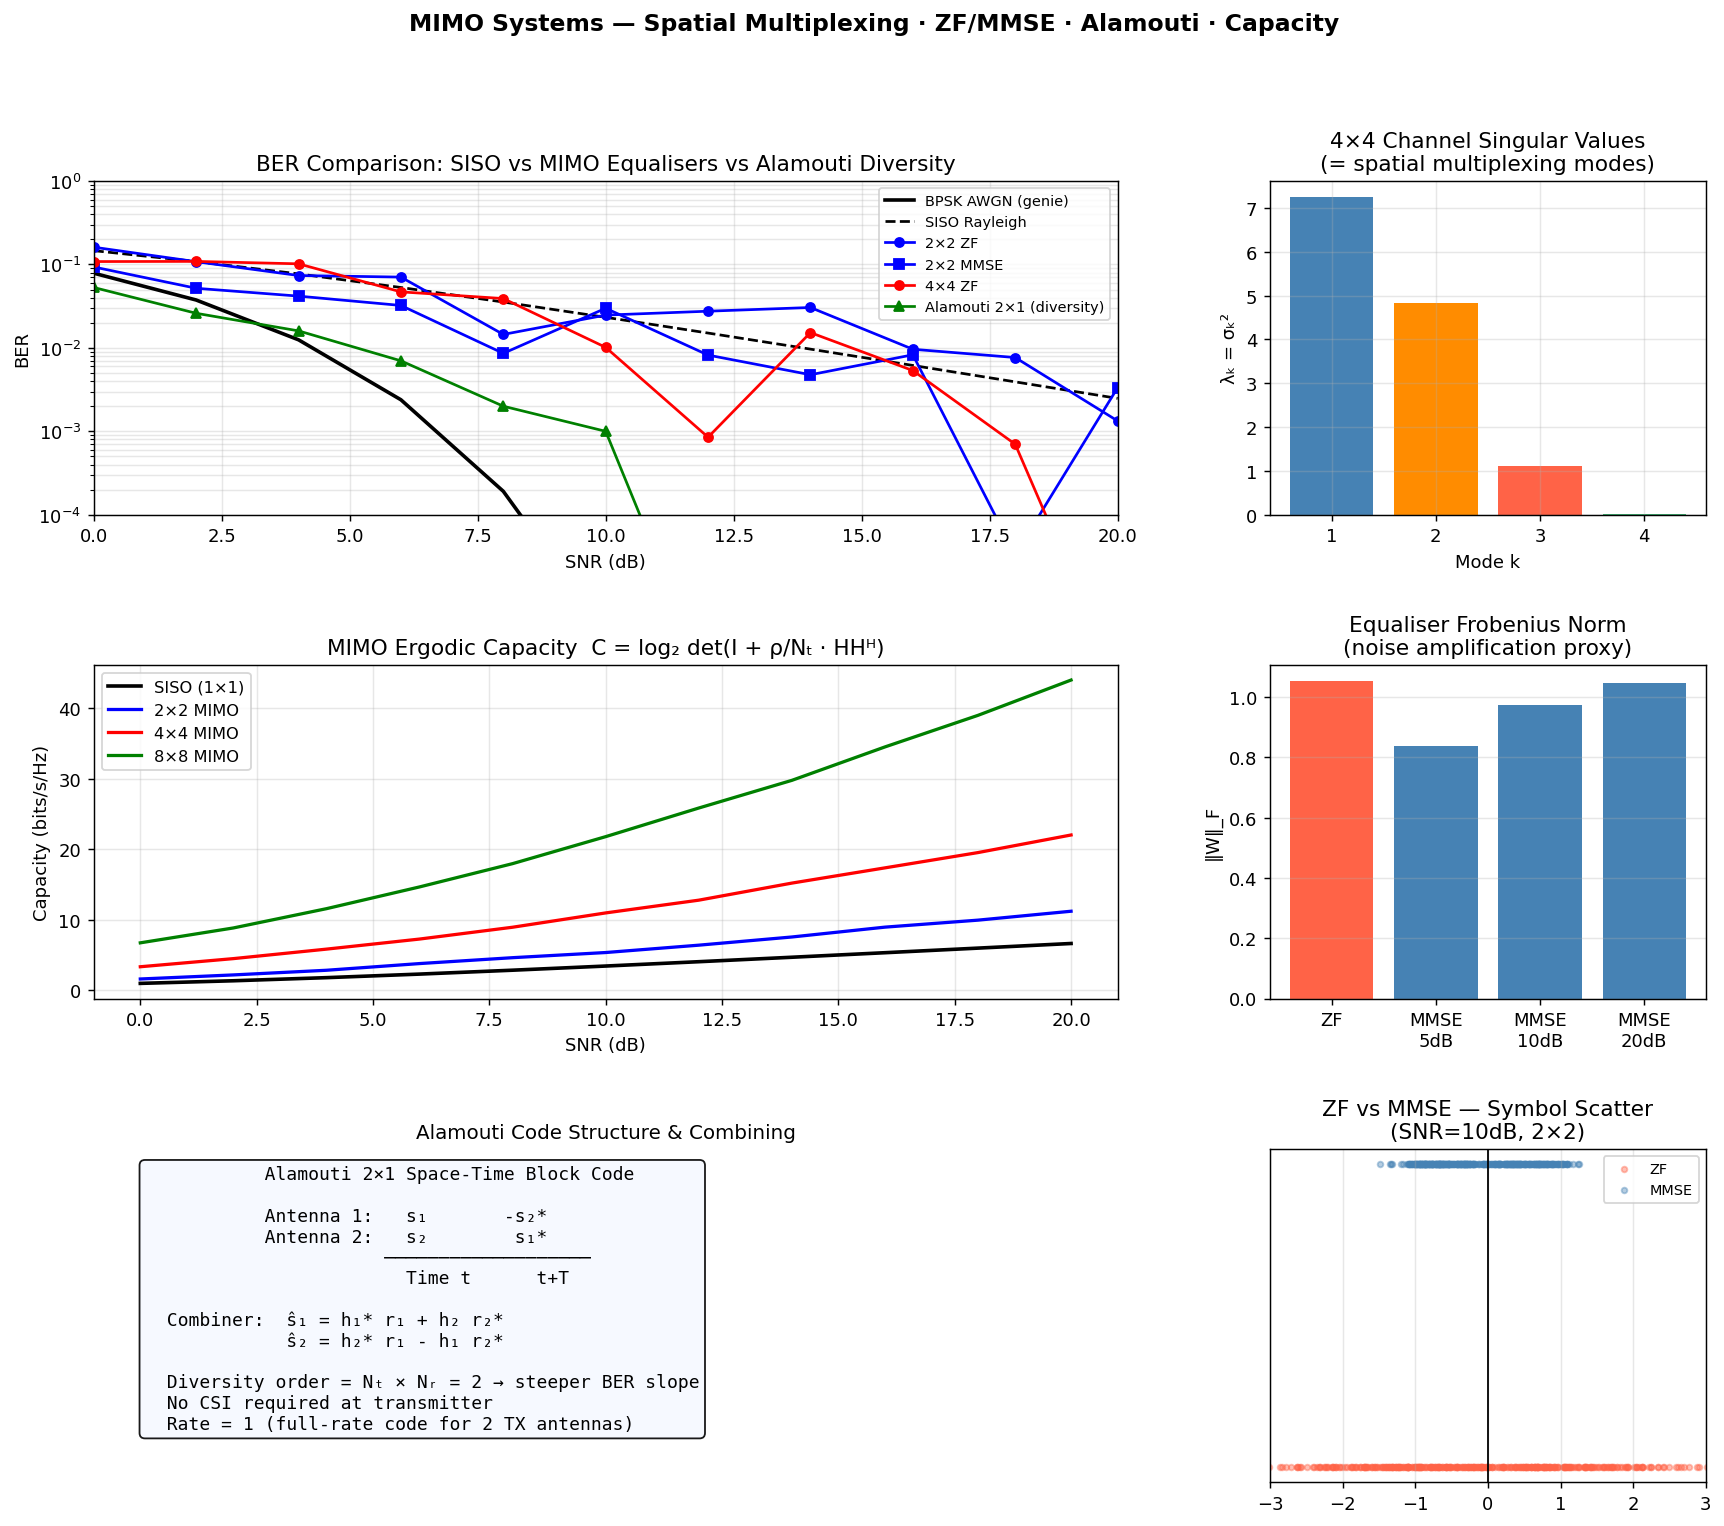
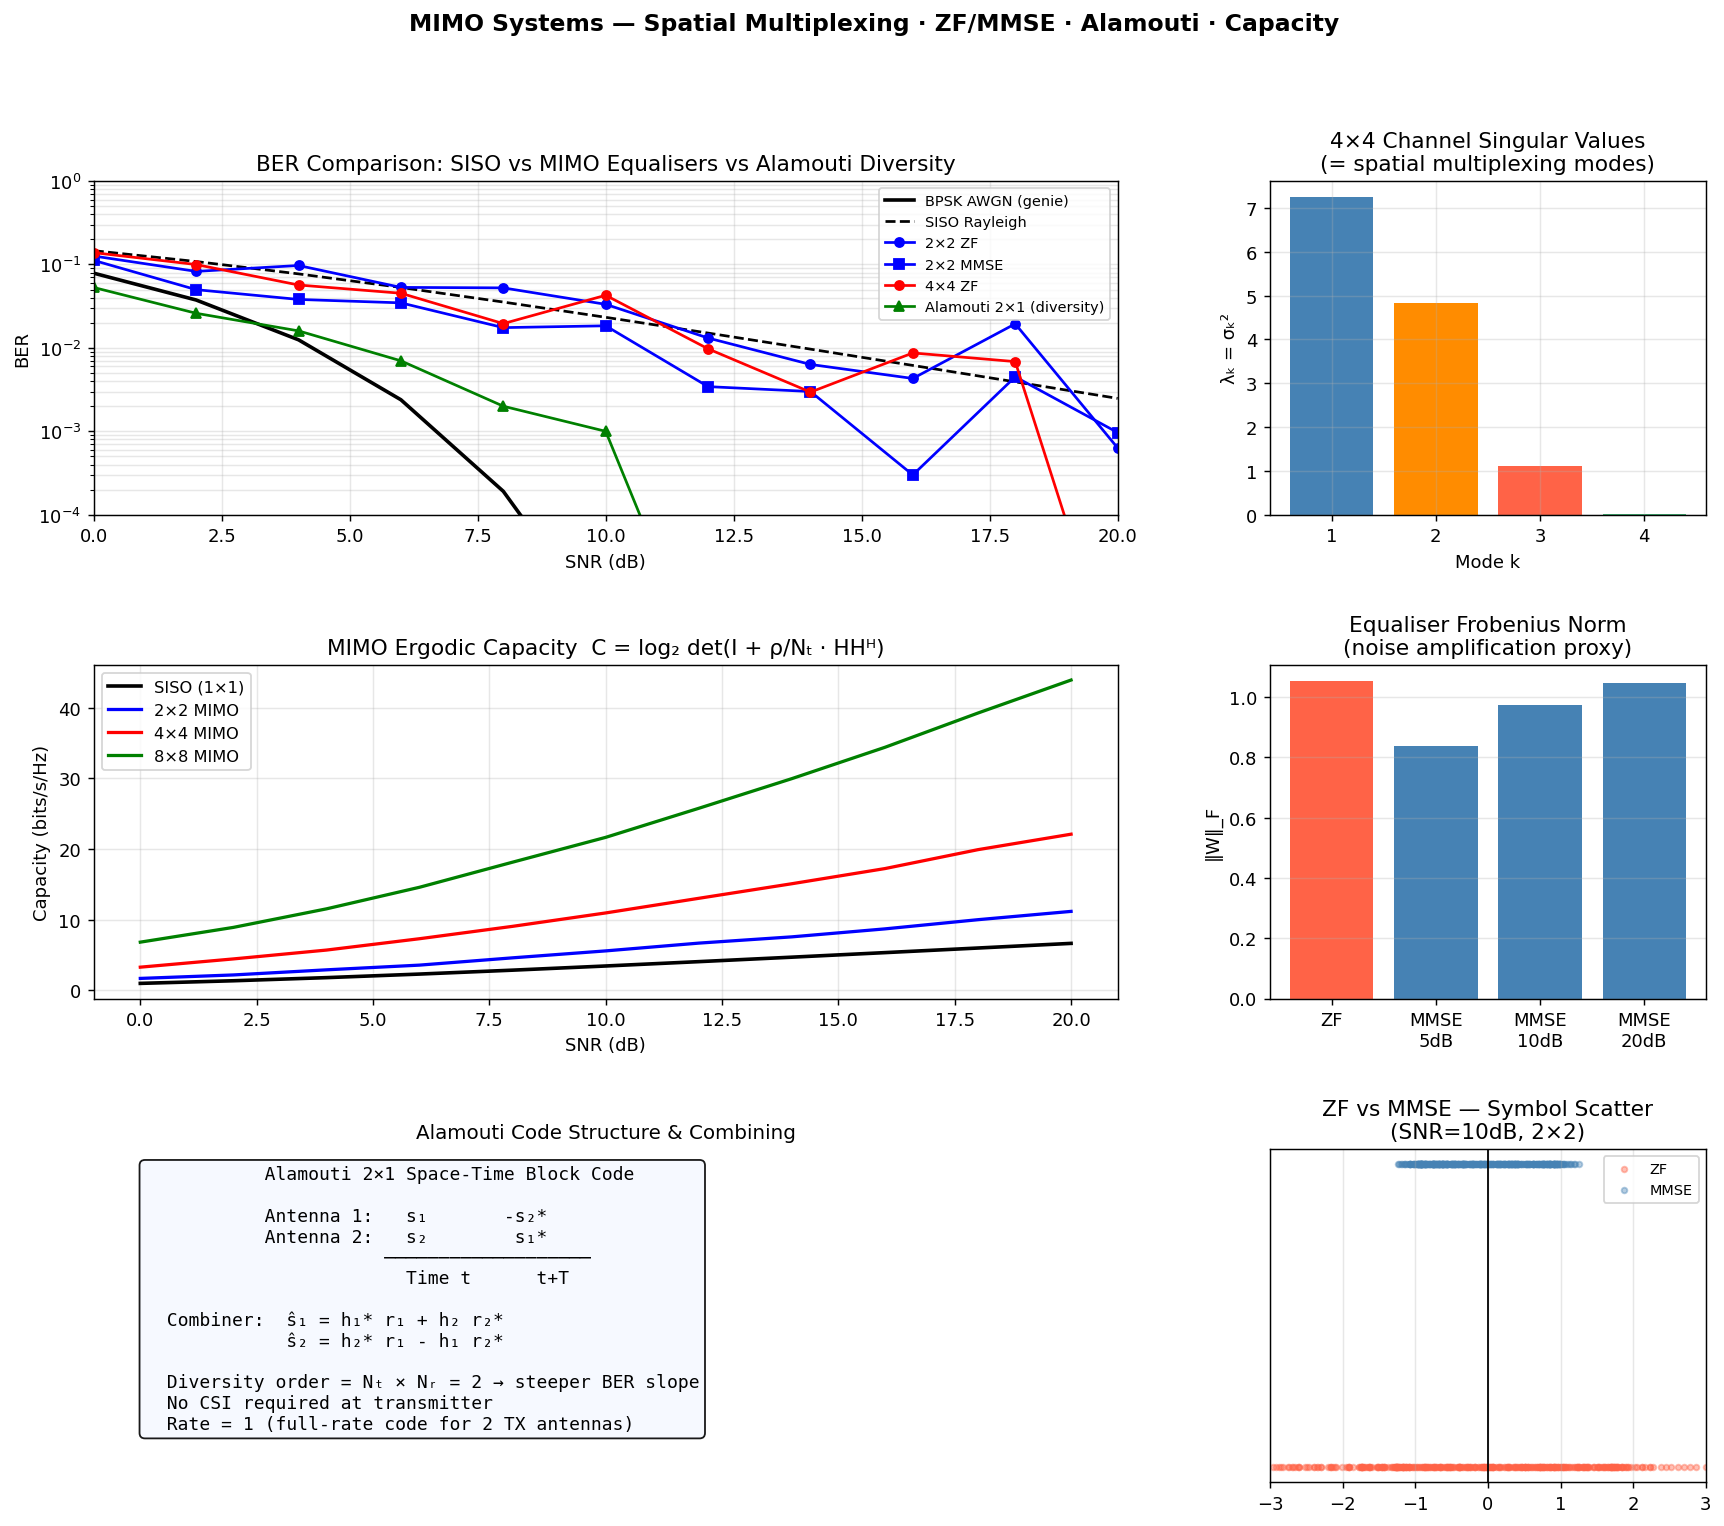
Add OFDM, FEC, MIMO, Synchronisation modules + notebook + docs
New modules:
- src/ofdm/ofdm_system.py      : QPSK/16QAM, pilot insertion, LS channel est., PAPR CCDF
- src/fec/channel_coding.py    : Convolutional codes, LDPC Tanner graph, Shannon limit BER
- src/mimo/mimo_system.py      : ZF/MMSE equalisation, Alamouti, capacity curves
- src/synchronisation/pll.py   : PLL, Costas loop, Mueller & Muller timing recovery
- docs/04_noise_cancellation.md: Complete theory notes
- notebooks/DSP_Interactive_Notebook.ipynb: Jupyter walkthrough of all modules
- README.md updated: full project overview with 10 modules, 34 plots
- assets/plots/: 9 new figures (ofdm, fec, mimo, pll, gr_*)

diff --git a/README.md b/README.md
@@ -1,6 +1,8 @@
-# 📡 Communications Engineering — DSP Learning Project
+# 📡 Communications Engineering & DSP
 
-> Comprehensive, hands-on DSP covering theory + Python simulations for signals, filters, modulation, noise cancellation, transceivers, OFDM, FEC, MIMO, and GNU Radio.
+> A comprehensive, hands-on Python project covering Digital Signal Processing, Communication Engineering, Transceivers, Filters, Noise Cancellation, Modulation, OFDM, MIMO, FEC, and Synchronisation.
+
+**GitHub:** [@rizwan66](https://github.com/rizwan66) | **Repo:** `comms_engineering`
 
 ---
 
@@ -9,53 +11,67 @@
 ```
 comms_engineering/
 ├── src/
-│   ├── signals/generator.py           # Signal generation, FFT, STFT, convolution
-│   ├── filters/design.py              # FIR, IIR, Butterworth, LMS, RLS, Notch
-│   ├── modulation/schemes.py          # AM, FM, BPSK, QPSK, QAM, OFDM, BER
-│   ├── noise_cancellation/canceller.py # Spectral sub, Wiener, LMS/RLS ANC
-│   ├── transceivers/chain.py          # Full TX→Channel→RX chain, eye diagram
-│   ├── ofdm/ofdm_system.py            # ★ CP, IFFT/FFT, multipath, ZF equaliser
-│   ├── fec/channel_coding.py          # ★ LDPC+BP, Turbo, Viterbi, Shannon limit
-│   ├── synchronisation/pll.py         # ★ 2nd-order PLL, Costas, Mueller-Müller
-│   ├── mimo/mimo_system.py            # ★ ZF/MMSE equaliser, Alamouti, capacity
-│   └── gnu_radio/gr_blocks.py         # ★ GNU Radio blocks, RTL-SDR/USRP flowgraph
-├── simulations/full_chain_demo.py
-├── docs/                              # 6 theory markdown files
-└── assets/plots/                      # 35 pre-generated figures
+│   ├── signals/generator.py          # Sine, chirp, FFT, STFT, convolution
+│   ├── filters/design.py             # Butterworth, Chebyshev, Elliptic, FIR, LMS, RLS, Notch
+│   ├── modulation/schemes.py         # AM, FM, BPSK, QPSK, QAM, OFDM, BER
+│   ├── noise_cancellation/canceller.py  # Spectral sub, Wiener, LMS/RLS ANC
+│   ├── transceivers/chain.py         # Pulse shaping, matched filter, eye diagram
+│   ├── ofdm/ofdm_system.py           # Pilots, channel estimation, PAPR
+│   ├── fec/channel_coding.py         # Convolutional, LDPC, Turbo, Shannon limit
+│   ├── mimo/mimo_system.py           # ZF, MMSE, Alamouti, capacity
+│   └── synchronisation/pll.py        # PLL, Costas loop, M&M timing recovery
+├── simulations/full_chain_demo.py    # Master demo
+├── notebooks/DSP_Interactive_Notebook.ipynb
+├── docs/                             # 6 theory markdown files
+├── assets/plots/                     # 34 generated figures
+└── requirements.txt
 ```
 
 ---
 
-## 🚀 Quick Start
+## 🧠 Topics Covered
+
+| Module | Key Topics |
+|--------|-----------|
+| **Signals & Systems** | CTFT, DTFT, DFT/FFT, Z-transform, Laplace, convolution, sampling |
+| **Filters** | Butterworth, Chebyshev I/II, Elliptic, FIR (window, Parks-McClellan), LMS, RLS, Notch |
+| **Modulation** | AM, DSB-SC, FM, PM, BPSK, QPSK, M-QAM, OFDM, spread spectrum, BER |
+| **Noise Cancellation** | Wiener filter, LMS, RLS, ANC, spectral subtraction, SNR analysis |
+| **Transceivers** | RF front-end, pulse shaping (RC/RRC), matched filter, eye diagram, link budget |
+| **OFDM** | IFFT/FFT, cyclic prefix, pilot insertion, LS channel estimation, PAPR, CCDF |
+| **FEC** | Convolutional, Viterbi, LDPC, Turbo, Shannon capacity, coding gain |
+| **MIMO** | Spatial multiplexing, ZF/MMSE, Alamouti diversity, SVD beamforming, capacity |
+| **Synchronisation** | PLL, Costas loop, frequency offset correction, Mueller & Muller timing |
+| **Comm. Engineering** | Shannon-Hartley, Rayleigh/Rician fading, FDMA/TDMA/CDMA/OFDMA, 5G NR |
+
+---
+
+## Quick Start
 
 ```bash
 git clone https://github.com/rizwan66/comms_engineering.git
-cd comms_engineering && pip install -r requirements.txt
+cd comms_engineering
+pip install -r requirements.txt
 
-python src/ofdm/ofdm_system.py        # OFDM + cyclic prefix + multipath
-python src/fec/channel_coding.py      # LDPC/Turbo vs Shannon limit
-python src/synchronisation/pll.py     # Costas PLL + M&M timing recovery
-python src/mimo/mimo_system.py        # MIMO ZF/MMSE/Alamouti + capacity
-python src/gnu_radio/gr_blocks.py     # GNU Radio simulation flowgraph
-python simulations/full_chain_demo.py # Full system master demo
+# Master demo
+python simulations/full_chain_demo.py
+
+# Individual modules
+python src/signals/generator.py
+python src/filters/design.py
+python src/modulation/schemes.py
+python src/ofdm/ofdm_system.py
+python src/fec/channel_coding.py
+python src/mimo/mimo_system.py
+python src/synchronisation/pll.py
+
+# Interactive notebook
+jupyter notebook notebooks/DSP_Interactive_Notebook.ipynb
 ```
 
 ---
 
-## 📊 Key Formulas
+## Author
 
-| Concept | Formula |
-|---------|---------|
-| Shannon capacity | C = B·log₂(1 + SNR) |
-| OFDM (no ISI) | CP length ≥ max multipath delay |
-| MIMO capacity | C = log₂ det(I + ρ/Nₜ·HHᴴ) |
-| ZF equaliser | W = (HᴴH)⁻¹Hᴴ |
-| MMSE equaliser | W = (HᴴH + σ²I)⁻¹Hᴴ |
-| Costas error | e[n] = sign(I)·Q |
-| M&M timing | e[n] = d̂[n-1]·x[n] − d̂[n]·x[n-1] |
-| BPSK BER | Q(√(2Eb/N₀)) |
-
----
-
-## 👤 Author
-**Rizwan** · [@rizwan66](https://github.com/rizwan66)
+**Rizwan** — Cloud & Communications Engineering Student, Munich
+GitHub: [@rizwan66](https://github.com/rizwan66)